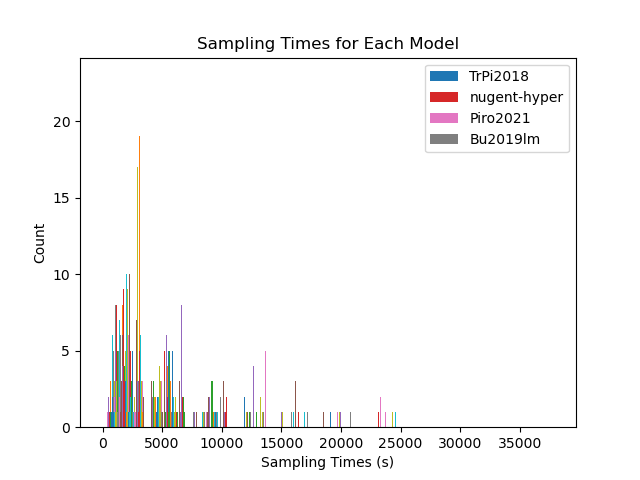
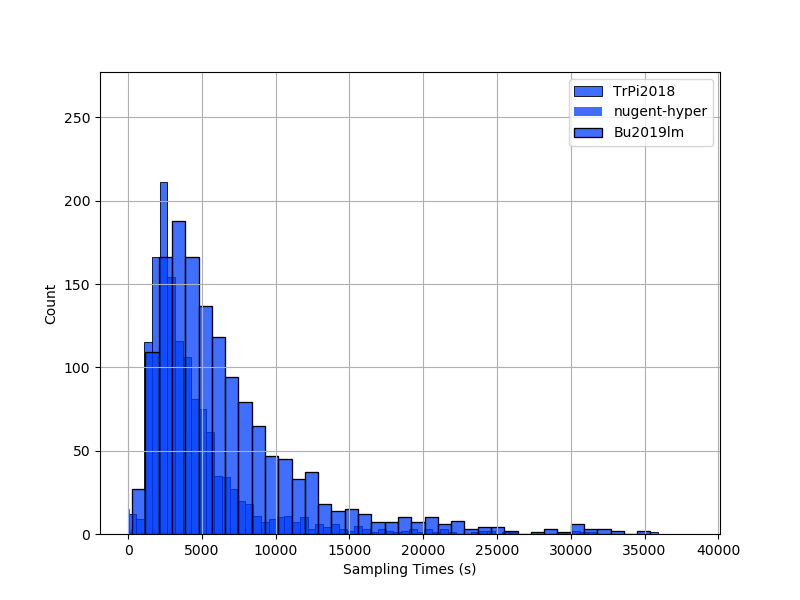
fixed fitTimeHistModel
however, we're still missing Piro2021

diff --git a/stats.py b/stats.py
@@ -676,24 +676,25 @@ def plotSamplingTime(df, models=args.models, save=True):
     print() if args.verbose else None
 
     ## data plotting
+    fig, ax = plt.subplots(figsize=(8,6), facecolor='white')
+    for key, value in fitTime.items(): ## this has issue of the value being an array of arrays (e.g each day will have an array of fit times). Wasn't an issue in plotUnfit() because each day had a single value 
+        ## I suppose I could just flatten it?
+        # print()
+        # print(value.flatten())
+        ## should pull this out maybe so it doesn't look as comnplicated
+        sns.histplot(np.concatenate(fitTime[key],axis=None).ravel(), label=key,ax=ax)  if key != 'Total' else None 
+        ## could fine tune the number of bins
+    ax.set_xlabel("Sampling Times (s)")
+    ax.set_ylabel('Count')
+    #ax.set_title('Sampling Times for Each Model') ## should these have titles?
+    ax.legend()
+    plt.savefig(plotDir("fitTimeHistModel")) if save else None
+    plt.clf()
 
     ## plot histogram of fit time data
     brokenPlots = True ## flag to determine whether the following plots should are working
     if not brokenPlots:
-        fig, ax = plt.subplots(figsize=(8,6), facecolor='white')
-        for key, value in fitTime.items(): ## this has issue of the value being an array of arrays (e.g each day will have an array of fit times). Wasn't an issue in plotUnfit() because each day had a single value 
-            ## I suppose I could just flatten it?
-            # print()
-            # print(value.flatten())
 
-            sns.histplot(fitTime[key].flatten(), label=key,ax=ax)  if key != 'Total' else None 
-            ## could fine tune the number of bins
-        ax.set_xlabel("Sampling Times (s)")
-        ax.set_ylabel('Count')
-        #ax.set_title('Sampling Times for Each Model') ## should these have titles?
-        ax.legend()
-        plt.savefig(plotDir("fitTimeHistModel")) if save else None
-        plt.clf()
 
         ## summing over axis=1 means that each day will have a single value
         ## plot histogram of total daily fit time
